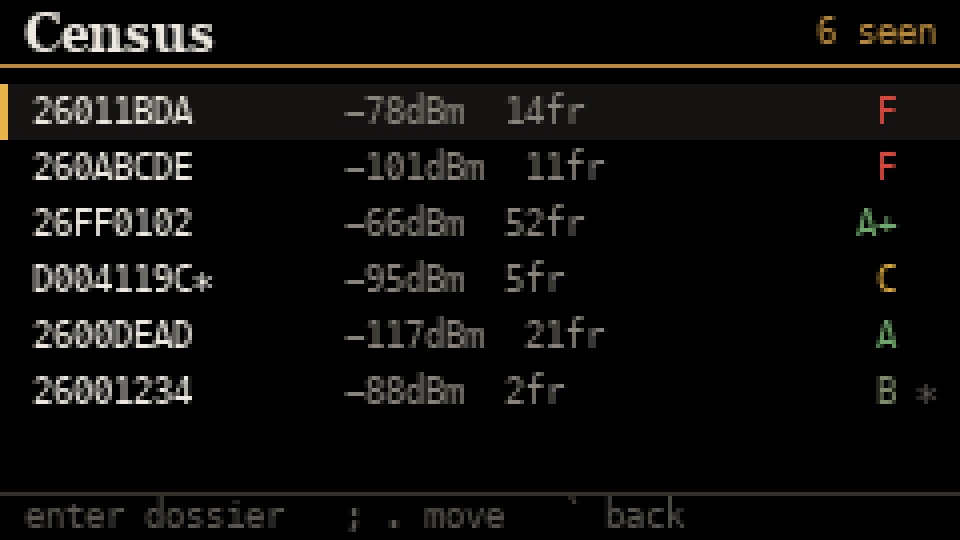
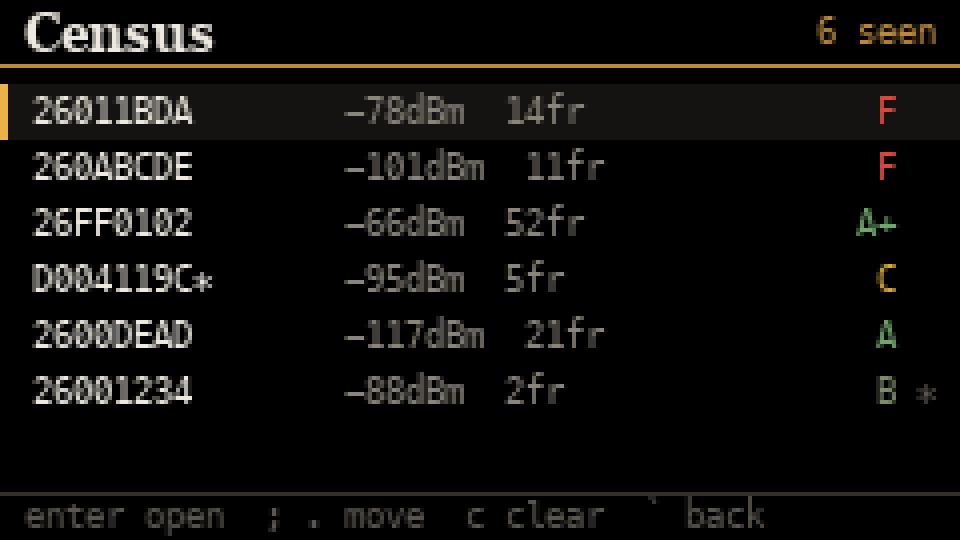
Match mockup footers to the firmware's own key hints

Changed region(s): [[0.1875, 0.9185, 0.8125, 0.9778], [0.1562, 0.9185, 0.1875, 0.9481]]

diff --git a/tools/render_mockups.py b/tools/render_mockups.py
@@ -167,7 +167,7 @@ def render_census(d, selected=0):
         if r.get("provisional"):
             text(dr, (W - 6, mid), "*", F_DATA, FAINT, anchor="rm")
 
-    footer(dr, "enter dossier   ; . move   ` back")
+    footer(dr, "enter open  ; . move  c clear  ` back")
     return img
 
 
